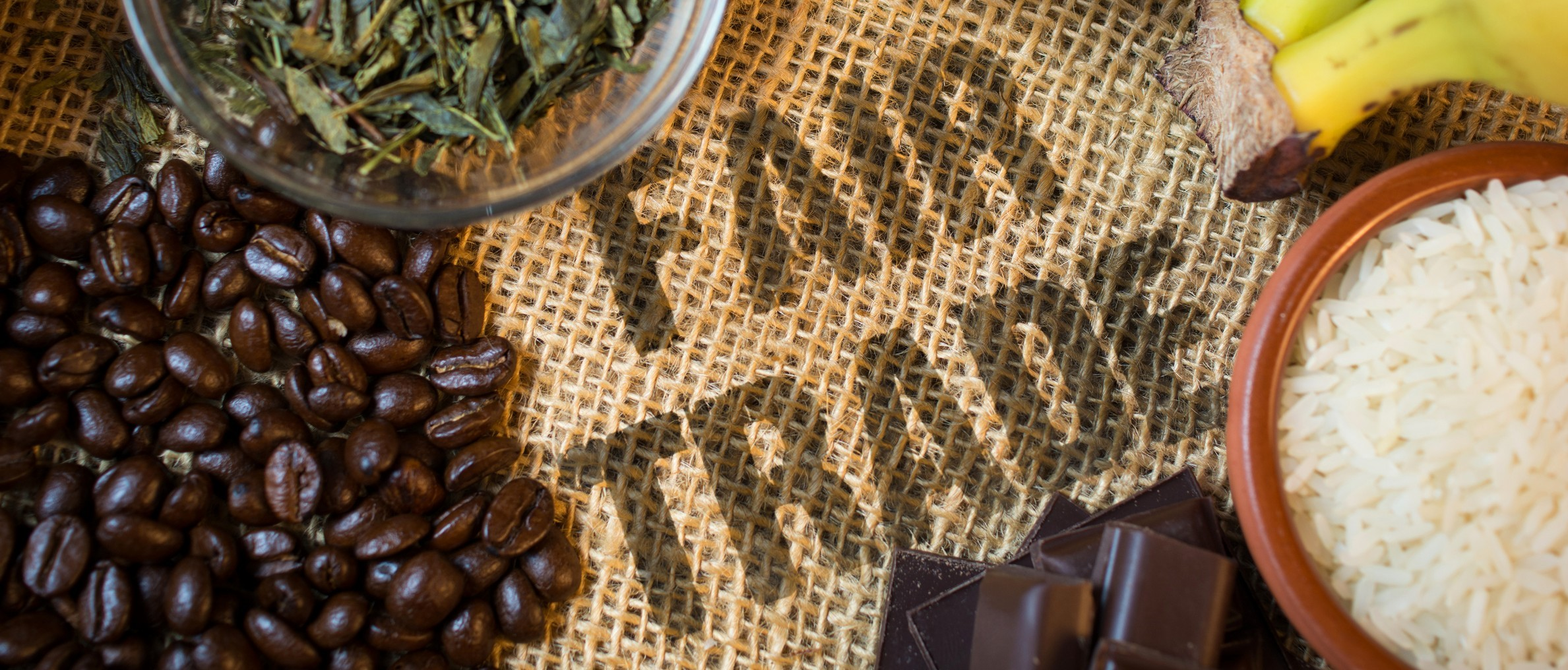
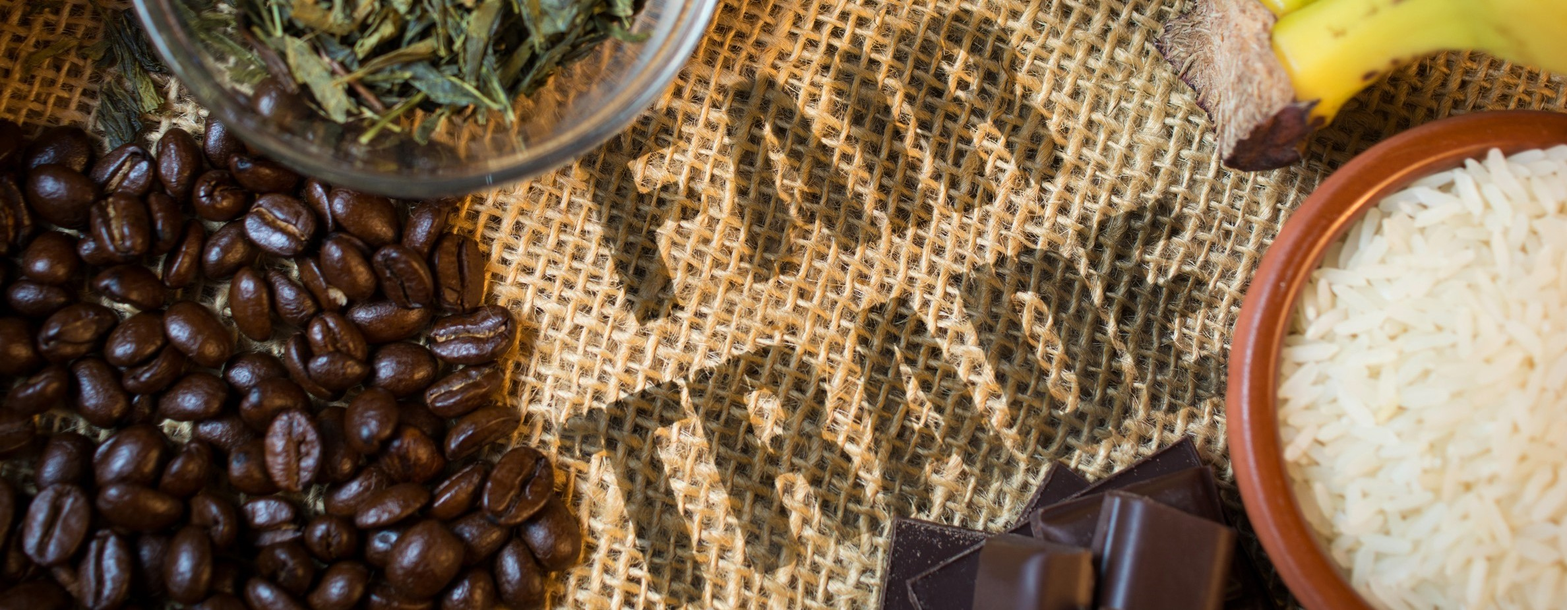
Immagini prodotti messe bene
e anche qualche altra modifica che non mi ricordo più

diff --git a/Prodotti/Cosmesi.html b/Prodotti/Cosmesi.html
@@ -104,7 +104,7 @@
     
     <!-- Banner -->
     <div>
-        <img src="../img/" class="img-responsive">
+        <img src="../img/cosmesi.jpeg" class="img-responsive">
     </div>
     
     <!-- Cose -->
@@ -209,26 +209,22 @@
                 
             <div id="invisibile" class="col-sm-1"></div>
             <div id="logo-alimenti" class="col-sm-4">
-                <p style="text-align: center"><a href="../Prodotti/Alimenti/Verdura.html">Verdura</a></p>
+                <p style="text-align: center"><a href="../Prodotti/Cosmesi/Capelli.html">Capelli</a></p>
             </div>
                 <div id="invisibile" class="col-sm-2 invisibile"></div>
             <div id="logo-abbigliamento" class="col-sm-4">
-                <p style="text-align: center"><a href="../Prodotti/Alimenti/Frutta.html">Frutta</a></p>
+                <p style="text-align: center"><a href="#">Igiene quotidiana</a></p>
             </div>
             <div id="invisibile2" class="col-sm-1"></div>
             <div id="invisibile" class="col-sm-1"></div>
             <div id="logo-cosmesi" class="col-sm-4">
-                <p style="text-align: center"><a href="../Prodotti/Alimenti/Tè_e_Tisane.html">Tè e Tisane</a></p>
+                <p style="text-align: center"><a href="#">Viso</a></p>
             </div>
                 <div id="invisibile" class="col-sm-2 invisibile"></div>
             <div id="logo-arredamento" class="col-sm-4">
-                <p style="text-align: center"><a href="Prodotti/Alimenti/Cioccolato.html">Cioccolato</a></p>
+                <p style="text-align: center"><a href="#">Corpo</a></p>
             </div>
                 <div id="invisibile2" class="col-sm-1"></div>
-                <div id="invisibile" class="col-sm-1 invisibile"></div>
-            <div id="logo-arredamento" class="col-sm-4">
-                <p style="text-align: center"><a href="Prodotti/Alimenti/Spezie_e_Condimenti.html">Spezie Condimenti</a></p>
-            </div>
             
             </div>
         </div>    

diff --git a/Prodotti/Cosmesi/Capelli/Shampoo.html b/Prodotti/Cosmesi/Capelli/Shampoo.html
@@ -101,18 +101,18 @@
              <a href="../../../Prodotti.html">Prodotti</a>
          </li>
          <li>
-             <a href="../../../Prodotti/Cosmesi.html">Alimenti</a>
+             <a href="../../../Prodotti/Cosmesi.html">Cosmesi</a>
          </li>
          <li>
-             <a href="../../../Prodotti/Cosmesi/Capelli.html">Verdura</a>
+             <a href="../../../Prodotti/Cosmesi/Capelli.html">Capelli</a>
          </li>
          <li class="active">Shampoo</li>
     </ol>    
     
-    <!-- Banner -->
+    <!-- Banner 
     <div>
         <img src="../../../img/Prodotti2.jpeg" class="img-responsive">
-    </div>
+    </div>-->
     
     <!-- Cose -->
     <div class="container">

diff --git a/Prodotti/Abbigliamento/Magliette/T-shirt.html b/Prodotti/Abbigliamento/Magliette/T-shirt.html
@@ -109,11 +109,11 @@
          <li class="active">T-shirt</li>
     </ol>    
     
-    <!-- Banner -->
+    <!-- Banner 
     <div>
         <img src="../../../img/Prodotti2.jpeg" class="img-responsive">
     </div>
-    
+    -->
     <!-- Cose -->
     <div class="container">
         <div class="row">

diff --git a/Prodotti/Arredamento/Accessori-per-la-cucina/Set-di-posate.html b/Prodotti/Arredamento/Accessori-per-la-cucina/Set-di-posate.html
@@ -109,10 +109,10 @@
          <li class="active">Set di posate</li>
     </ol>    
     
-    <!-- Banner -->
+    <!-- Banner 
     <div>
         <img src="../../../img/Prodotti2.jpeg" class="img-responsive">
-    </div>
+    </div>-->
     
     <!-- Cose -->
     <div class="container">

diff --git a/Prodotti/Alimenti/Verdura/Carote.html b/Prodotti/Alimenti/Verdura/Carote.html
@@ -109,10 +109,10 @@
          <li class="active">Carota</li>
     </ol>
 
-    <!-- Banner -->
+    <!-- Banner 
     <div>
         <img src="../../../img/Prodotti2.jpeg" class="img-responsive">
-    </div>
+    </div>-->
 
     <!-- Cose -->
     <div class="container">

diff --git a/Prodotti/Arredamento.html b/Prodotti/Arredamento.html
@@ -104,7 +104,7 @@
     
     <!-- Banner -->
     <div>
-        <img src="../img/Arredamento2.png" class="img-responsive2">
+        <img src="../img/arredamento.jpg" class="img-responsive">
     </div>
     
     <!-- Cose -->

diff --git a/Prodotti/Alimenti/Verdura.html b/Prodotti/Alimenti/Verdura.html
@@ -107,7 +107,7 @@
     
     <!-- Banner -->
     <div>
-        <img src="../../img/Prodotti2.jpeg" class="img-responsive">
+        <img src="../../img/verdure.jpg" class="img-responsive">
     </div>
     
     <!-- Cose -->

diff --git a/Prodotti/Alimenti.html b/Prodotti/Alimenti.html
@@ -104,7 +104,7 @@
     
     <!-- Banner -->
     <div>
-        <img src="../img/Prodotti2.jpeg" class="img-responsive">
+        <img src="../img/alimenti.jpeg" class="img-responsive">
     </div>
     
     <!-- Cose -->

diff --git a/Prodotti/Arredamento/Accessori_per_la_cucina.html b/Prodotti/Arredamento/Accessori_per_la_cucina.html
@@ -107,7 +107,7 @@
     
     <!-- Banner -->
     <div>
-        <img src="../../img/" class="img-responsive">
+        <img src="../../img/attrezzi-cucina.jpg" class="img-responsive">
     </div>
     
     <!-- Cose -->

diff --git a/Prodotti/Abbigliamento/Magliette.html b/Prodotti/Abbigliamento/Magliette.html
@@ -107,7 +107,7 @@
     
     <!-- Banner -->
     <div>
-        <img src="../../img/" class="img-responsive">
+        <img src="../../img/magliette.jpeg" class="img-responsive">
     </div>
     
     <!-- Cose -->

diff --git a/Prodotti/Abbigliamento.html b/Prodotti/Abbigliamento.html
@@ -104,7 +104,7 @@
     
     <!-- Banner -->
     <div>
-        <img src="../img/" class="img-responsive">
+        <img src="../img/abbigliamento.jpg" class="img-responsive">
     </div>
     
     <!-- Cose -->

diff --git a/Prodotti/Cosmesi/Capelli.html b/Prodotti/Cosmesi/Capelli.html
@@ -107,7 +107,7 @@
     
     <!-- Banner -->
     <div>
-        <img src="../../img/" class="img-responsive">
+        <img src="../../img/capelli.jpg" class="img-responsive">
     </div>
     
     <!-- Cose -->
